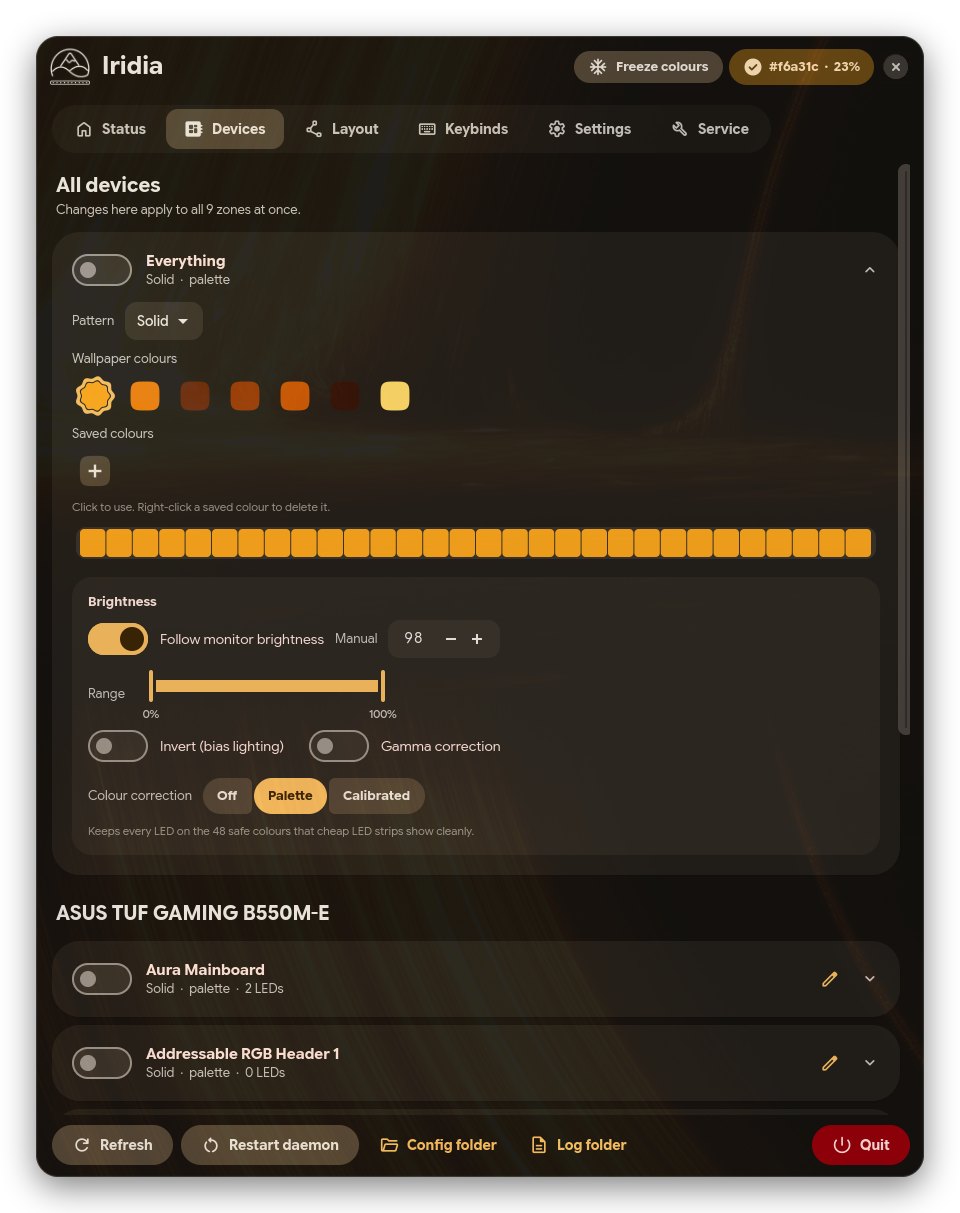
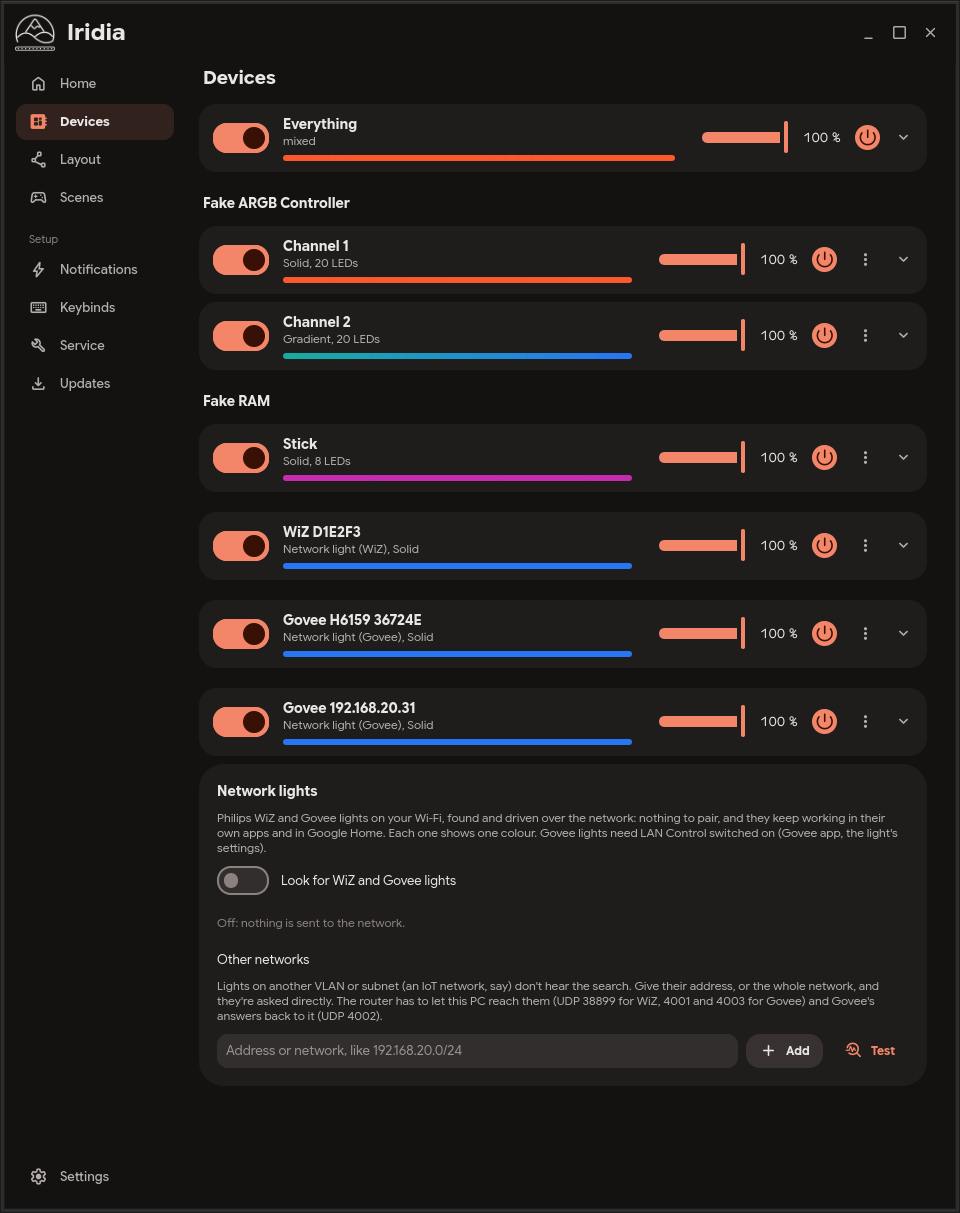
Redesign: Layout glow, plain set-up pages, shorter texts, new screenshots
- Layout: the strips glow on the wall in their colours (two soft passes, round for one-colour
  lights), the strip list is plain text, and the how-to is one line with the whole of it
  behind a ? button.
- Settings, Service, Updates, Notifications and Keybinds: groups are plain sections with a
  line between them instead of boxes; shorter section texts; Edit on the map is a normal
  button, not a full-width bar.
- The wallpaper on Home is drawn at a fixed size, so it stays sharp and the right size at 2x.
- The empty Favourites note is one short line; texts no longer point to the old tabs.
- README and wiki screenshots show the new window; CHANGELOG describes the redesign.

Claude-Session: https://claude.ai/code/session_01MLS2YgJuJgrdD96pU5WbXt

diff --git a/iridia/ui/layout_tab.py b/iridia/ui/layout_tab.py
@@ -83,8 +83,22 @@ class LayoutTab(NotifyLayer, Gtk.Box):
 
     # ================================================================ UI
     def _build(self):
-        self._hint = label("", ("small", "faint"), wrap=True)
-        self.append(self._hint)
+        # the tool's one-line how-to; the whole of it behind ?
+        self._hint = label("", ("small", "dim"), ellipsize=True)
+        self._hint.set_hexpand(True)
+        self._help_pop = Gtk.Popover()
+        self._help_lbl = label("", ("small",), wrap=True, chars=60)
+        for m in ("top", "bottom", "start", "end"):
+            getattr(self._help_lbl, f"set_margin_{m}")(8)
+        self._help_pop.set_child(self._help_lbl)
+        help_btn = Gtk.MenuButton()
+        help_btn.set_child(icon("help"))
+        help_btn.add_css_class("flat-menu")
+        help_btn.set_tooltip_text(_("How this tool works"))
+        help_btn.set_popover(self._help_pop)
+        hint_row = hbox(6, self._hint, help_btn)
+        hint_row.set_margin_bottom(6)
+        self.append(hint_row)
         main = hbox(12, vexpand=True)
         overlay = Gtk.Overlay(hexpand=True, vexpand=True)
         frame = Gtk.Box(hexpand=True, vexpand=True)
@@ -404,6 +418,29 @@ class LayoutTab(NotifyLayer, Gtk.Box):
             cr.line_to(*spts[k])
         cr.stroke()
         cr.restore()
+        # the light the LEDs throw on the wall behind them: a soft wide line in each LED's colour (cheap
+        # enough for every frame, unlike a gradient per LED)
+        if not (self.status.get("lights_off") or self.status.get("asleep")):
+            cr.save()
+            cr.set_line_cap(1)
+            k_of = {pt: k for k, pt in enumerate(spts)}
+            for width, alpha in ((tape_w * 4.4, 0.06), (tape_w * 2.4, 0.11)):     # a soft edge, then the core
+                cr.set_line_width(width)
+                for run in runs:
+                    for a, b in zip(run, run[1:]):
+                        i = led_at_path(s, n, k_of.get(a, 0))
+                        col = colors[i] if i < len(colors) else "000000"
+                        cr.set_source_rgba(*theme.hex_rgb(col), alpha)
+                        cr.move_to(*a)
+                        cr.line_to(*b)
+                        cr.stroke()
+            if n == 1 and not hid[0]:                   # a one-colour light: a round glow
+                col = colors[0] if colors else "000000"
+                for rad, alpha in ((tape_w * 2.2, 0.06), (tape_w * 1.2, 0.11)):
+                    cr.set_source_rgba(*theme.hex_rgb(col), alpha)
+                    cr.arc(*spts[0], rad, 0, 2 * math.pi)
+                    cr.fill()
+            cr.restore()
         for run in runs:
             if sel:
                 cr.set_source_rgb(*rgb("PRIMARY"))
@@ -840,7 +877,7 @@ class LayoutTab(NotifyLayer, Gtk.Box):
             if self._grad_anchor is None or self._grad_anchor[0] != s["id"]:
                 self._grad_anchor = (s["id"], i)
                 paint[i] = self.color_a
-                self._hint.set_label(_("Gradient: now click the LED where it should end."))
+                self._set_hint(_("Gradient: now click the LED where it should end."))
             else:
                 a, b = sorted((self._grad_anchor[1], i))
                 ca, cb = ((self.color_a, self.color_b) if self._grad_anchor[1] <= i else (self.color_b, self.color_a))
@@ -900,7 +937,7 @@ class LayoutTab(NotifyLayer, Gtk.Box):
         self._found = found
         d, z = split_key(s["zone"])
         self._send(self.app.client.led_probe, d, z, i)
-        self._hint.set_label(_('LED {led} of {n} on {strip} is lit on your strip; the rest are dark. Click or drag along the strip to move it. Right-click to add a bend there. Pick another tool to go back to normal.').format(led=i + 1, n=n, strip=self._strip_name(s)))
+        self._set_hint(_('LED {led} of {n} on {strip} is lit on your strip; the rest are dark. Click or drag along the strip to move it. Right-click to add a bend there. Pick another tool to go back to normal.').format(led=i + 1, n=n, strip=self._strip_name(s)))
         self.cv.queue_draw()
 
     def _stop_find(self):
@@ -949,7 +986,13 @@ class LayoutTab(NotifyLayer, Gtk.Box):
                   "ringed one to take LEDs out). Drag A and B to set where a moving flash runs; Play tries it.")
         else:
             t = _("Paint: click or drag over LEDs. Painting switches that zone to the Painted pattern.")
-        self._hint.set_label(t)
+        self._set_hint(t)
+
+    def _set_hint(self, t):
+        """The line shows the first sentence; ? and the tooltip have all of it."""
+        self._help_lbl.set_label(t)
+        self._hint.set_label(t.split(". ")[0].rstrip(".") + ".")
+        self._hint.set_tooltip_text(t)
 
     def _toggle_lock(self):
         self.layout.locked = not self.layout.locked
@@ -1126,12 +1169,13 @@ class LayoutTab(NotifyLayer, Gtk.Box):
                              cb=lambda st=st, h=hidden: self._set_hidden(st, not h),
                              tooltip=_("Show this strip") if hidden else _("Hide this strip"))
                 r_.append(eye)
-                name = self._strip_name(st) + (f"  \u00b7  {_('clone')}" if st["clone"] else "")
+                name = self._strip_name(st) + (" " + _("(clone)") if st["clone"] else "")
                 nb = Gtk.Button(label=name, hexpand=True)
                 d_, z_ = split_key(st["zone"])
                 nb.set_tooltip_text(_('{zone} on {device}').format(zone=z_, device=d_) if z_ else d_)
                 nb.add_css_class("text")
                 nb.add_css_class("small")
+                nb.add_css_class("neutral")
                 nb.get_child().set_xalign(0)
                 nb.get_child().set_ellipsize(3)
                 if hidden:

diff --git a/iridia/ui/app.py b/iridia/ui/app.py
@@ -459,6 +459,10 @@ class IridiaWindow(Gtk.ApplicationWindow):
                 self._stack.add_named(ov, key)
                 continue
             self._stack.add_named(sc, key)
+        # set-up pages: their groups are plain sections with a line between, not boxes (boxes are for
+        # things you act on: strips, favourites, scenes)
+        for key in ("settings", "service", "updates", "notify", "keybinds"):
+            pages[key].add_css_class("plain-page")
         self._status_page, self._devices_page = pages["status"], pages["devices"]
         self._settings_page, self._service_page = pages["settings"], pages["service"]
         self._updates_page = pages["updates"]
@@ -1602,7 +1606,9 @@ class IridiaWindow(Gtk.ApplicationWindow):
         c.append(label(_("On the map"), ("heading",)))
         c.append(label(_("Choose the LEDs, paint their colours and set the A and B points a moving flash runs "
                          "between, on the Layout tab."), ("small", "dim"), wrap=True))
-        c.append(button(_("Edit on the map"), "polyline", "filled small", self.open_notify_map))
+        emap = button(_("Edit on the map"), "polyline", "tonal small", self.open_notify_map)
+        emap.set_halign(Gtk.Align.START)
+        c.append(emap)
         p.append(c)
         c = card()
         n = self.config.get("notify", {}) or {}
@@ -2155,9 +2161,8 @@ class IridiaWindow(Gtk.ApplicationWindow):
     # ============================================================ service tab
     def _build_service(self):
         p = self._service_page
-        p.append(section(_("Background daemon"), _("The daemon is the part of Iridia that keeps your lights in sync. It "
-                                              "runs in the background and keeps working when this window is closed. "
-                                              "This window only changes its settings."), 10))
+        p.append(section(_("Background daemon"), _("It keeps your lights in sync, also while this window is closed."),
+                         10))
         c = card()
         self._svc_status = label(_("Checking…"), ("heading",))
         c.append(self._svc_status)
@@ -2171,8 +2176,7 @@ class IridiaWindow(Gtk.ApplicationWindow):
         p.append(c)
         self._build_diagnostics(p)
 
-        p.append(section(_("Start the daemon when I log in"), _("Pick one method. If you enable more than one, nothing "
-                                                           "breaks, since only one daemon ever runs.")))
+        p.append(section(_("Start the daemon when I log in"), _("One way is enough; more than one does no harm.")))
         c = card()
         c.append(label(_("systemd service"), ("subheading",)))
         self._unit_status = label(_("Checking…"), ("small", "dim"), wrap=True)

diff --git a/iridia/ui/home.py b/iridia/ui/home.py
@@ -104,34 +104,35 @@ def _cover(pb, w, h):
     return scaled.new_subpixbuf((tw - w) // 2, (th - h) // 2, w, h)
 
 
-class Thumb(Gtk.Picture):
-    """The wallpaper, small, loaded off the main thread (a big image takes a moment to read)."""
+class Thumb(Gtk.DrawingArea):
+    """The wallpaper, small, with rounded corners: read off the main thread (a big image takes a moment)
+    at the screen's own scale, and drawn at a fixed size (an image widget would size itself by the
+    image's pixels, twice as big on a 2x screen)."""
 
     W, H = 176, 104
 
     def __init__(self):
         super().__init__()
-        self.set_size_request(self.W, self.H)
-        self.set_content_fit(Gtk.ContentFit.COVER)
-        self.set_can_shrink(True)
-        self.set_overflow(Gtk.Overflow.HIDDEN)
-        self.add_css_class("thumb")
+        self.set_content_width(self.W)
+        self.set_content_height(self.H)
         self.set_valign(Gtk.Align.CENTER)
+        self.set_draw_func(self._draw)
         self._path = None
+        self._pb = None
+        self._k = 1
 
     def show_path(self, path):
         if path == self._path:
             return
         self._path = path
         if not path or not os.path.isfile(path):
-            self.set_paintable(None)
+            self._pb = None
             self.set_visible(False)
             return
+        k = max(1, self.get_scale_factor())
 
         def load():
             try:
-                # cover-cropped to exactly the box (at the screen's scale), so it never sets its own size
-                k = max(1, self.get_scale_factor())
                 src = GdkPixbuf.Pixbuf.new_from_file_at_scale(path, -1, self.H * k * 2, True)
                 pb = _cover(src, self.W * k, self.H * k)
             except GLib.Error:
@@ -139,15 +140,21 @@ class Thumb(Gtk.Picture):
             GLib.idle_add(done, pb)
 
         def done(pb):
-            if path != self._path:
-                return False
-            if pb is None:
-                self.set_visible(False)
-            else:
-                self.set_paintable(Gdk.Texture.new_for_pixbuf(pb))
-                self.set_visible(True)
+            if path == self._path:
+                self._pb, self._k = pb, k
+                self.set_visible(pb is not None)
+                self.queue_draw()
             return False
         threading.Thread(target=load, daemon=True).start()
+
+    def _draw(self, _a, cr, w, h):
+        if self._pb is None:
+            return
+        _rounded(cr, 0, 0, w, h, 14)
+        cr.clip()
+        cr.scale(1 / self._k, 1 / self._k)
+        Gdk.cairo_set_source_pixbuf(cr, self._pb, 0, 0)
+        cr.paint()
 
 
 class Hero(Gtk.Overlay):

diff --git a/iridia/ui/style.py b/iridia/ui/style.py
@@ -107,6 +107,7 @@ button.tonal {{ background: {SECONDARY_CONTAINER}; color: {ON_SECONDARY_CONTAINE
 button.text {{ background: transparent; color: {PRIMARY}; padding: 0 12px; }}
 button.text:hover {{ background: {SURFACE_CONTAINER_HIGH}; }}
 button.text.dim {{ color: {OUTLINE}; }}
+button.text.neutral {{ color: {ON_SURFACE}; font-weight: 500; }}
 button.outlined {{ background: transparent; color: {PRIMARY}; border: 1px solid {OUTLINE}; }}
 button.danger {{ background: {ERROR_CONTAINER}; color: {ON_ERROR_CONTAINER}; }}
 button.danger:hover {{ background: {ERROR_HOVER}; }}
@@ -151,6 +152,10 @@ flowbox.wrap-row > flowboxchild {{ padding: 0; background: none; border-radius: 
 
 /* ---------- surfaces ---------- */
 .card {{ background: {SURFACE_CONTAINER}; border-radius: 28px; padding: 20px; }}
+/* set-up pages: groups are plain sections, a line between them */
+.plain-page > .card {{ background: transparent; border-radius: 0; padding: 6px 4px 22px 4px;
+  border-bottom: 1px solid {OUTLINE_VARIANT}; }}
+.plain-page > .card .card-inner {{ background: {SURFACE_CONTAINER}; }}
 .row-card {{ border-radius: 20px; padding: 12px 16px; }}
 popover button.menu-item {{ background: transparent; color: {ON_SURFACE}; border-radius: 10px; min-height: 36px; }}
 popover button.menu-item:hover {{ background: {SECONDARY_CONTAINER}; }}

diff --git a/iridia/ui/favorites_tab.py b/iridia/ui/favorites_tab.py
@@ -188,12 +188,8 @@ class FavoritesPage:
         page.append(self._add_card)
         self._empty = card()
         self._empty.append(label(_("Nothing here yet"), ("heading",)))
-        self._empty.append(label(_("Make a card for some strips (or all of them) with the controls you want on it: "
-                                   "on and off, brightness, colours, follow the monitor, an effect, your looks, "
-                                   "switches. Or add a look, a setup or a switch on its own. A strip's ★ on the "
-                                   "Devices tab makes a card for it."), ("small", "dim"), wrap=True))
-        self._empty.append(hbox(8, button(_("New card"), "add", "filled small", lambda: self._open_card(None)),
-                                button(_("New look"), "palette", "tonal small", lambda: self._open_look(None))))
+        self._empty.append(label(_("Make a card for the strips you use most, with just the controls you want. "
+                                   "A strip's menu on the Devices page can make one too."), ("small", "dim"), wrap=True))
         page.append(self._empty)
         self._board = Board()
         # The board sits in its own scroller that never scrolls sideways: it doesn't make the window as

diff --git a/iridia/cli.py b/iridia/cli.py
@@ -963,7 +963,7 @@ def _looks_text(r):
     from iridia.looks import describe
     looks = r.get("looks") or []
     if not looks:
-        return "No looks yet: make them on the Favourites tab."
+        return "No looks yet: make them on Home, under Favourites."
     lines = []
     for lk in looks:
         where = "everything" if lk["targets"] == ["*"] else ", ".join(t.rstrip("|").replace("|", "/") for t in lk["targets"])
@@ -1782,7 +1782,7 @@ def main(argv=None):
                            help="seconds before the lights go back (0 to 10)")
     sc_parser.add_argument("--interval", type=int,
                            help="seconds between checks, where the desktop can't say what's in front (1 to 30)")
-    lk_parser = subparsers.add_parser("look", help="Turn one of your looks on or off (made on the Favourites tab)",
+    lk_parser = subparsers.add_parser("look", help="Turn one of your looks on or off (made on Home, under Favourites)",
                                       description="A look is a one-tap change you name yourself, like 'Movie': "
                                                   "everything at 15%%. Run it again to go back. For a keybind.")
     lk_parser.add_argument("name", nargs="?", help="the look's name")

diff --git a/iridia/ui/keybinds_tab.py b/iridia/ui/keybinds_tab.py
@@ -351,7 +351,7 @@ class KeybindsPage:
                 "night": _("Switches night mode on or off (this one is saved)."),
                 "animations": _("Same key pauses every animated effect, then lets them run again."),
                 "setup": _("Loads the setup and keeps it (an automatic backup is made first)."),
-                "look": _("Same key puts the look on, then back to normal. Make looks on the Favourites tab."),
+                "look": _("Same key puts the look on, then back to normal. Make looks on Home, under Favourites."),
             }[kind])
         mods_v = self._mods.value() or NO_MOD
         mods = [] if mods_v == NO_MOD else [m.strip() for m in mods_v.split("+")]

diff --git a/iridia/ui/zonecard.py b/iridia/ui/zonecard.py
@@ -361,7 +361,8 @@ class ZoneCard(Gtk.Box):
             parts.insert(0, self.zone_name or self.device_name)
         if self._kind_text:
             parts.insert(0, self._kind_text)
-        self._summary.set_label(", ".join(p for p in parts if p))
+        text = ", ".join(p for p in parts if p)
+        self._summary.set_label(text[:1].upper() + text[1:])
 
     # ------------------------------------------------------------ details
     def _build_details(self):

diff --git a/README.md b/README.md
@@ -22,9 +22,9 @@ It can also animate them, map them to your room, follow your monitor's brightnes
 > driving WS2812B strips, but not yet on every desktop or device, so review the code before relying on it.
 
 <p align="center">
-  <img alt="Status tab" src="docs/screenshots/status.png" width="32%">
-  <img alt="Devices tab" src="docs/screenshots/devices.png" width="32%">
-  <img alt="Layout tab" src="docs/screenshots/layout.png" width="32%">
+  <img alt="Home" src="docs/screenshots/status.png" width="32%">
+  <img alt="Devices" src="docs/screenshots/devices.png" width="32%">
+  <img alt="Layout" src="docs/screenshots/layout.png" width="32%">
 </p>
 
 ## Features
@@ -74,7 +74,7 @@ your package manager (pacman, apt, dnf, zypper, xbps or apk) and asks before run
 Iridia into `~/.local/share/iridia-venv`, links `iridia` and `iridia-gui` into `~/.local/bin`, and asks
 how OpenRGB's server and the daemon should start (`--openrgb=daemon|systemd|off`,
 `--autostart=systemd|xdg|compositor|none`; `--yes` takes the defaults, `--no-deps` leaves system
-packages alone). Update from the *Updates* tab, with `iridia update`, or with `git pull && bash install.sh
+packages alone). Update from the *Updates* page, with `iridia update`, or with `git pull && bash install.sh
 --update`. `bash uninstall.sh` removes it (`--keep-settings` or `--purge`). The
 [installation guide](docs/wiki/Installation.md) has the details.
 
@@ -106,7 +106,7 @@ iridia setup save "Evening"                        # keep this look
 | Ctrl + Plus / Minus | Larger or smaller window contents |
 | Ctrl + 0 | Automatic size |
 
-Shortcuts for the lights themselves are set in your desktop: the *Keybinds* tab builds the command and the
+Shortcuts for the lights themselves are set in your desktop: the *Keybinds* page builds the command and the
 line for your desktop's config ([Keybinds](docs/wiki/Keybinds.md)).
 
 ## Files

diff --git a/CHANGELOG.md b/CHANGELOG.md
@@ -1,5 +1,27 @@
 # Changelog
 
+## Unreleased
+
+A new look for the window: quieter, so your lights' own colours are what stands out.
+
+- **Home** brings Status and Favourites together. At the top: your wallpaper, its colours (click one
+  to use it on all your lights) and brightness, Freeze and the lights' power, glowing from below in the
+  colours your strips show right now. Saved colours and the colour-correction preview fold away under it;
+  the daemon's details moved to Service.
+- **A side rail** instead of ten tabs in a row: Home, Devices, Layout and Scenes, then the pages you set
+  up once under *Setup*, Settings at the bottom. In a narrow window it shows just the icons.
+- **Devices is a compact list:** a row per strip with a line of the colours it shows, its brightness and
+  power; its menu (⋮) has Favourites, Hide and Rename, and a click opens the rest. A network light is one
+  row with its own name. Range, invert, gamma and colour correction fold under *More*.
+- **Layout:** the strips glow on the wall in their colours, the strip list is plain text, and the how-to
+  is one line with the rest behind **?**.
+- **No bar at the bottom any more:** Restart daemon and the folders are on Service, Refresh is gone (the
+  window updates itself), and Ctrl+Q closes the window like its close button.
+- **Calmer colours:** grey surfaces instead of tinted ones, the accent only where there's light, power
+  buttons lit in it when on (no pastel green and red), and a blue window until there are colours.
+- Set-up pages use plain sections instead of boxes, shorter texts, and the status chip only shows when
+  something needs you. The wallpaper picture stays sharp on HiDPI screens.
+
 ## 1.3.15 — 2026-11-13
 
 - **Text in the window can be selected and copied** (drag over it, then Ctrl+C or right-click, Copy):

diff --git a/docs/wiki/Configuration.md b/docs/wiki/Configuration.md
@@ -72,7 +72,7 @@ and the log says so. Values of the wrong type are replaced with their defaults o
 | zone `hands_off`, `independent`, `keep_color` | absent | Iridia sends it nothing; it ignores the monitor's brightness, night mode, lock and sleep; a network light keeps its own colour (brightness and on/off only) |
 | zone `on_demand` | absent | A network light gets colour and brightness only when changed on its card, never on or off (*Only when I change it*) |
 | zone `hidden` | absent | Hidden on the Devices tab and left out of lists elsewhere; it still gets its colours |
-| `looks`, `favorites` | `[]`, `[]` | Your looks and the Favourites tab's tiles, in order (see [Favourites and looks](Favourites.md)) |
+| `looks`, `favorites` | `[]`, `[]` | Your looks and the Favourites on Home, in order (see [Favourites and looks](Favourites.md)) |
 | `netlights.manual` | `[]` | Lights added by address, driven without hearing from them: `[{"kind": "govee", "ip": "192.168.20.31"}]` |
 | `netlights.hosts` | `[]` | Addresses or networks (`"192.168.20.0/24"`) also asked directly, for lights on another VLAN or subnet |
 | `netlights.enabled` | `false` | Look for Philips WiZ and Govee lights on the network; each one found becomes a device with `"net": "wiz"` or `"govee"` (see [Network lights](Network-Lights.md)) |

diff --git a/docs/wiki/Color-Correction.md b/docs/wiki/Color-Correction.md
@@ -11,7 +11,7 @@ card to set all zones):
 | **Calibrated** | Colors go through a calibration profile made for your kind of strip, which maps each hue to the hex the strip needs to look like that hue. Brightness is part of the mapping, so dim colors keep their hue. Gamma isn't used. |
 
 The window and its accent color always follow the wallpaper or the color you chose, never the corrected
-color. The *Color correction preview* on the Status tab shows what each wallpaper color becomes on your
+color. The *Colour correction preview* on Home (under the hero) shows what each wallpaper color becomes on your
 strip.
 
 ## Exact colors
